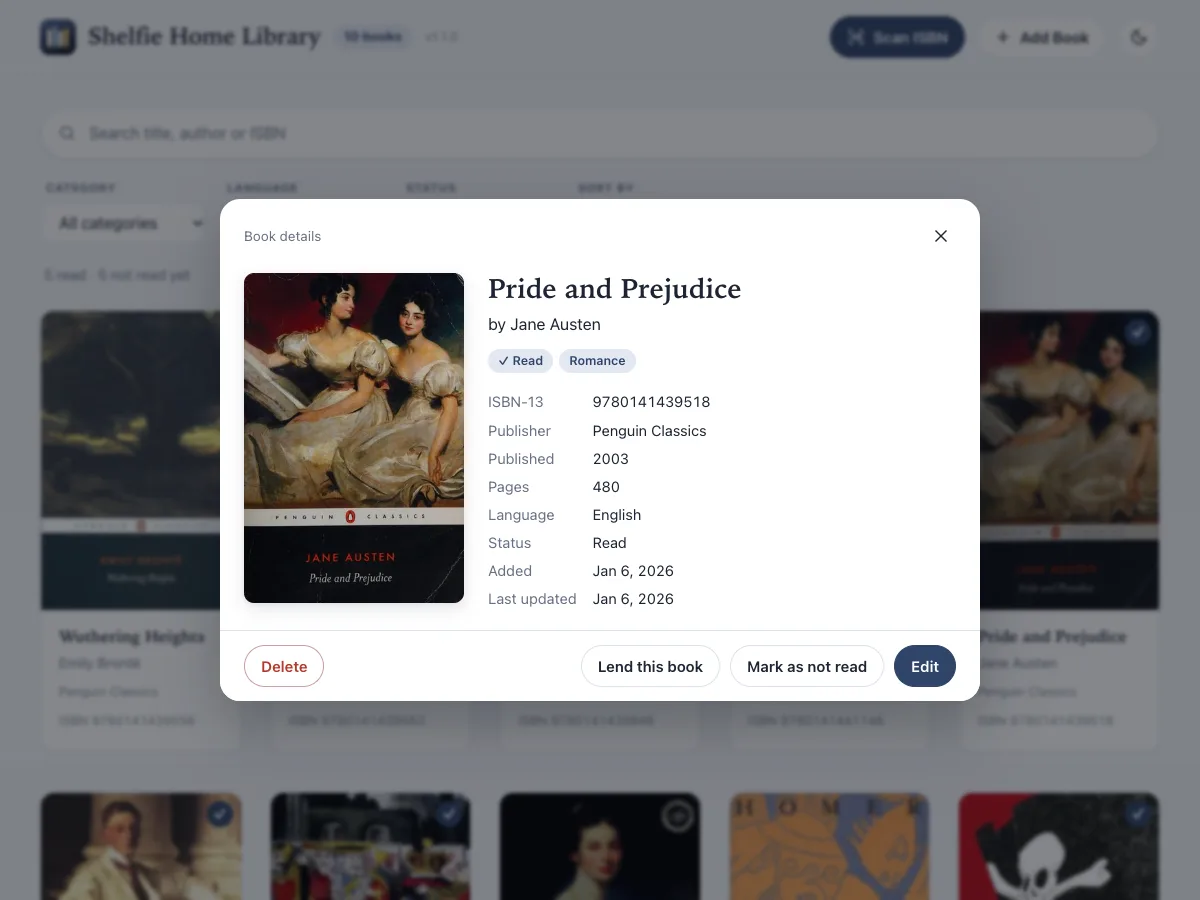
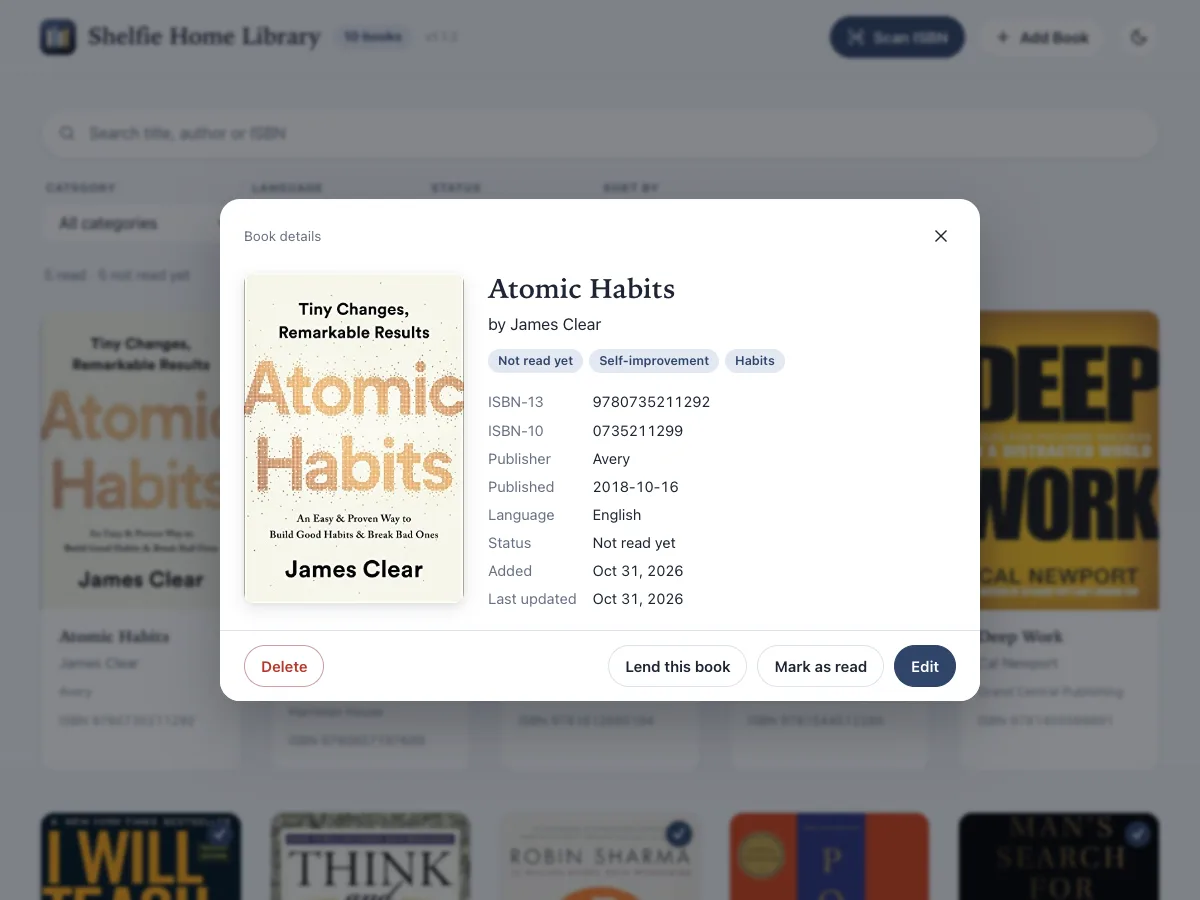
Modify home library product page

diff --git a/products/shelfie.html b/products/shelfie.html
@@ -16,12 +16,12 @@ dl: https://github.com/milandawijekoon/home_library/releases/latest/download
         <img class="product-icon lg" src="{{ '/assets/images/shelfie/icon-256.webp' | relative_url }}" alt="" width="72" height="72" />
         <h1 class="page-title" style="margin:0;">Shelfie Home Library</h1>
       </div>
-      <p class="page-lede" style="margin-top:18px;">Scan a barcode, and your book is catalogued. A simple, private desktop app for the books you own.</p>
+      <p class="page-lede" style="margin-top:18px;">Scan a barcode, and your book is catalogued. A free, private app for Mac and Windows that keeps a neat catalogue of every book you own.</p>
       <div class="product-actions">
         <a class="btn btn-primary" href="#download">Download for free</a>
         <a class="btn btn-outline" href="{{ page.repo }}" target="_blank" rel="noopener">View on GitHub &nearr;</a>
       </div>
-      <p class="product-meta"><span>Version {{ page.release }}</span><span>macOS &amp; Windows</span><span>Free</span><span>No account needed</span></p>
+      <p class="product-meta"><span>Version {{ page.release }}</span><span>macOS &amp; Windows</span><span>Free &amp; open source</span><span>No account needed</span></p>
     </div>
   </section>
 
@@ -47,14 +47,42 @@ dl: https://github.com/milandawijekoon/home_library/releases/latest/download
     </div>
   </section>
 
-  <section class="section outer">
+  <section class="section outer" id="how-it-works">
     <div class="inner wide">
-      <div class="section-head"><h2 class="section-title">A closer look</h2></div>
-      <div class="shot-grid">
-        <figure class="product-shot"><img src="{{ '/assets/images/shelfie/book-details.webp' | relative_url }}" alt="Details of a single book with ISBN, publisher, pages, status, and lend, edit and delete actions" width="1200" height="900" loading="lazy" /><figcaption>Book details, reading status and lending</figcaption></figure>
-        <figure class="product-shot"><img src="{{ '/assets/images/shelfie/library-list.webp' | relative_url }}" alt="The library shown as a compact list" width="1200" height="900" loading="lazy" /><figcaption>List view for larger collections</figcaption></figure>
+      <div class="section-head"><h2 class="section-title">How it works</h2></div>
+      <div class="walk-row">
+        <div class="walk-text"><span class="walk-step">Step 1</span><h3 class="project-title">Start with an empty shelf</h3><p class="project-desc">The first time you open Shelfie your library is empty. Add your first book by scanning it or typing it in.</p></div>
+        <figure class="product-shot"><img src="{{ '/assets/images/shelfie/empty-library.webp' | relative_url }}" alt="The empty library shown on first start" width="1200" height="900" loading="lazy" /></figure>
       </div>
-      <p class="product-note">Screenshots show sample books only.</p>
+      <div class="walk-row rev">
+        <div class="walk-text"><span class="walk-step">Step 2</span><h3 class="project-title">Scan a barcode</h3><p class="project-desc">Hold the barcode on the back cover (starting with 978 or 979) up to the camera. No camera? Type the ISBN and click Look up.</p></div>
+        <figure class="product-shot"><img src="{{ '/assets/images/shelfie/scan-isbn.webp' | relative_url }}" alt="The Scan ISBN window with the camera pointed at a barcode and a box to type the ISBN" width="1200" height="900" loading="lazy" /></figure>
+      </div>
+      <div class="walk-row">
+        <div class="walk-text"><span class="walk-step">Step 3</span><h3 class="project-title">Check, edit, or add by hand</h3><p class="project-desc">Review what was found and fix anything before saving. Books without a barcode can be typed in. Only the title and ISBN are required.</p></div>
+        <figure class="product-shot"><img src="{{ '/assets/images/shelfie/add-book.webp' | relative_url }}" alt="The Add Book form with title, author, ISBN and cover photo fields" width="1200" height="900" loading="lazy" /></figure>
+      </div>
+      <div class="walk-row rev">
+        <div class="walk-text"><span class="walk-step">Step 4</span><h3 class="project-title">Open any book</h3><p class="project-desc">See the full details, mark it as read or not read, edit it, or delete it after a confirmation.</p></div>
+        <figure class="product-shot"><img src="{{ '/assets/images/shelfie/book-details.webp' | relative_url }}" alt="Details of a single book with ISBN, publisher, status, and lend, edit and delete actions" width="1200" height="900" loading="lazy" /></figure>
+      </div>
+      <div class="walk-row">
+        <div class="walk-text"><span class="walk-step">Step 5</span><h3 class="project-title">Lend a book to a friend</h3><p class="project-desc">Note who has borrowed a book and when. Mark it returned later, and filter by Lent out to see everything that is currently away.</p></div>
+        <figure class="product-shot"><img src="{{ '/assets/images/shelfie/lend-book.webp' | relative_url }}" alt="The Lend this book window asking who is borrowing and the date" width="1200" height="900" loading="lazy" /></figure>
+      </div>
+      <div class="walk-row rev">
+        <div class="walk-text"><span class="walk-step">Step 6</span><h3 class="project-title">Find any book fast</h3><p class="project-desc">Search by title, author, publisher, category or number. Filter by category, language or status, and sort by date, title, author or publication date.</p></div>
+        <figure class="product-shot"><img src="{{ '/assets/images/shelfie/search.webp' | relative_url }}" alt="Searching the library, narrowing the list as you type" width="1200" height="900" loading="lazy" /></figure>
+      </div>
+      <div class="walk-row">
+        <div class="walk-text"><span class="walk-step">Step 7</span><h3 class="project-title">Grid or list</h3><p class="project-desc">Switch between a grid of covers and a compact list for larger collections.</p></div>
+        <figure class="product-shot"><img src="{{ '/assets/images/shelfie/library-list.webp' | relative_url }}" alt="The library shown as a compact list" width="1200" height="900" loading="lazy" /></figure>
+      </div>
+      <div class="walk-row rev">
+        <div class="walk-text"><span class="walk-step">Step 8</span><h3 class="project-title">Light and dark</h3><p class="project-desc">Switch between light and dark with the moon button at the top right.</p></div>
+        <figure class="product-shot"><img src="{{ '/assets/images/shelfie/dark-mode.webp' | relative_url }}" alt="The library in dark mode" width="1200" height="900" loading="lazy" /></figure>
+      </div>
+      <p class="product-note">Screenshots show sample books only. Cover images are from <a href="https://openlibrary.org" target="_blank" rel="noopener">Open Library</a> and belong to their respective authors and publishers.</p>
     </div>
   </section>
 
@@ -112,6 +140,20 @@ dl: https://github.com/milandawijekoon/home_library/releases/latest/download
             <li>Check the details, edit if you like, then click <strong>Add to My Library</strong>.</li>
           </ol>
         </div>
+      </div>
+    </div>
+  </section>
+
+  <section class="section outer" id="faq">
+    <div class="inner wide">
+      <div class="section-head"><h2 class="section-title">Questions &amp; answers</h2></div>
+      <div class="faq">
+        <details><summary>Does it cost anything?</summary><p>No. Shelfie is free and open source under the MIT License.</p></details>
+        <details><summary>Do I need the internet?</summary><p>Only to look up a book's details and cover when you add it, and to check for updates. Browsing, searching and editing your books works offline.</p></details>
+        <details><summary>How do I back up my library?</summary><p>There is no export button. Close the app and copy the data folder (see Private by design below) to a USB stick or cloud drive. To restore, copy the files back.</p></details>
+        <details><summary>Can two computers share one library?</summary><p>Not automatically. Each computer keeps its own library.</p></details>
+        <details><summary>Does it update itself?</summary><p>Yes. It checks in the background and offers to restart when a new version is ready. On a Mac, if an update can't install by itself, Shelfie opens the download page.</p></details>
+        <details><summary>Windows says &ldquo;Smart App Control blocked an app&rdquo;</summary><p>Smart App Control has no &ldquo;Run anyway&rdquo; button. To continue, open Windows Security, then App &amp; browser control, then Smart App Control settings, and choose Off. Windows will not let you turn it back on without resetting the PC, so only do this if you are comfortable with that.</p></details>
       </div>
     </div>
   </section>

diff --git a/assets/css/main.css b/assets/css/main.css
@@ -789,3 +789,23 @@ footer.site-footer{border-top:1px solid var(--border);padding:40px max(4%,24px);
   .product-card-title{font-size:2.4rem;}
   .product-actions .btn{width:100%;justify-content:center;}
 }
+
+/* ---------- product walkthrough & faq ---------- */
+.walk-row{display:grid;grid-template-columns:1fr 1.4fr;gap:48px;align-items:center;margin-bottom:64px;}
+.walk-row.rev{grid-template-columns:1.4fr 1fr;}
+.walk-row.rev .walk-text{order:2;}
+.walk-text{display:flex;flex-direction:column;gap:10px;}
+.walk-step{font-family:var(--font-mono);font-size:1.2rem;letter-spacing:.06em;text-transform:uppercase;color:var(--accent);}
+.walk-text .project-title{font-size:2.6rem;letter-spacing:-0.02em;}
+.walk-text .project-desc{font-size:1.7rem;}
+.faq{max-width:760px;border-top:1px solid var(--border);}
+.faq details{border-bottom:1px solid var(--border);padding:18px 0;}
+.faq summary{cursor:pointer;font-weight:600;font-size:1.7rem;list-style:none;display:flex;justify-content:space-between;gap:16px;}
+.faq summary::-webkit-details-marker{display:none;}
+.faq summary::after{content:"+";color:var(--accent);font-size:2.2rem;line-height:1;}
+.faq details[open] summary::after{content:"\2212";}
+.faq p{margin:12px 0 0;color:var(--midgrey);font-size:1.55rem;}
+@media (max-width:900px){
+  .walk-row,.walk-row.rev{grid-template-columns:1fr;gap:20px;margin-bottom:44px;}
+  .walk-row.rev .walk-text{order:0;}
+}
